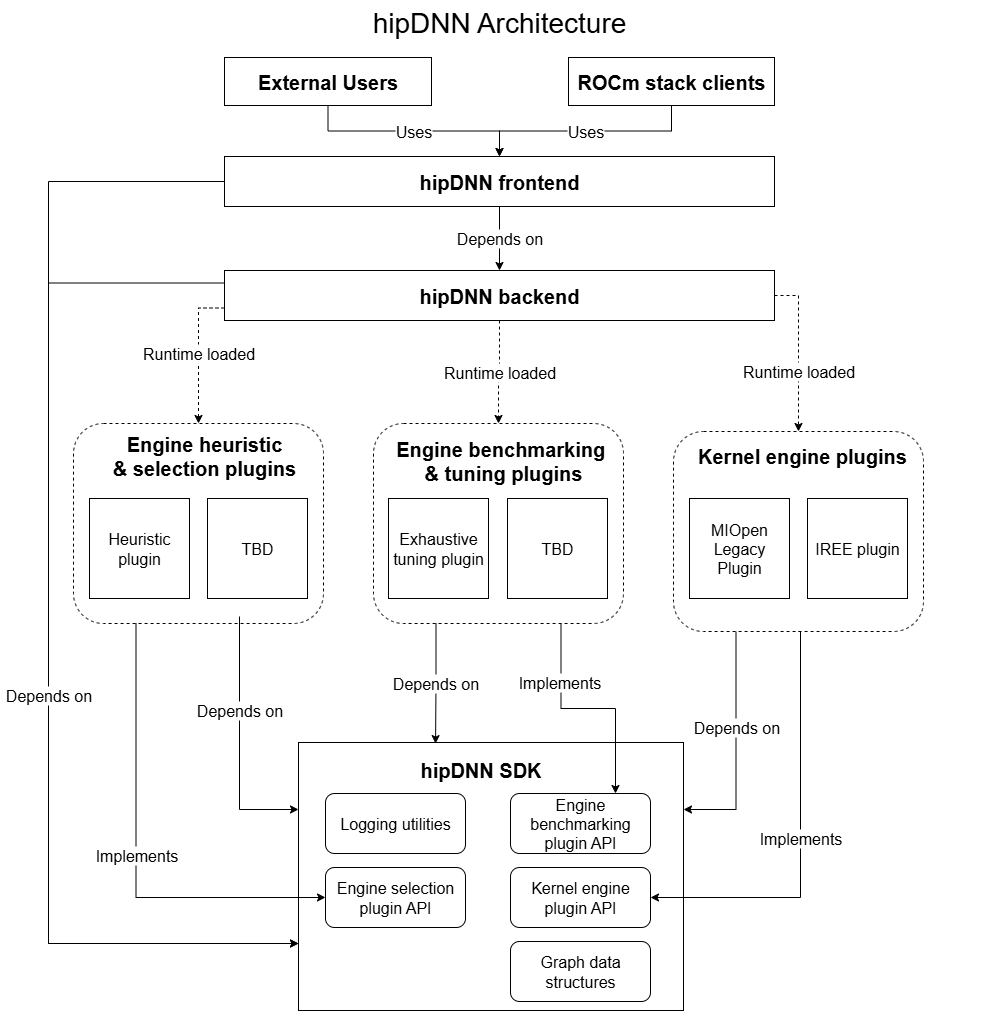
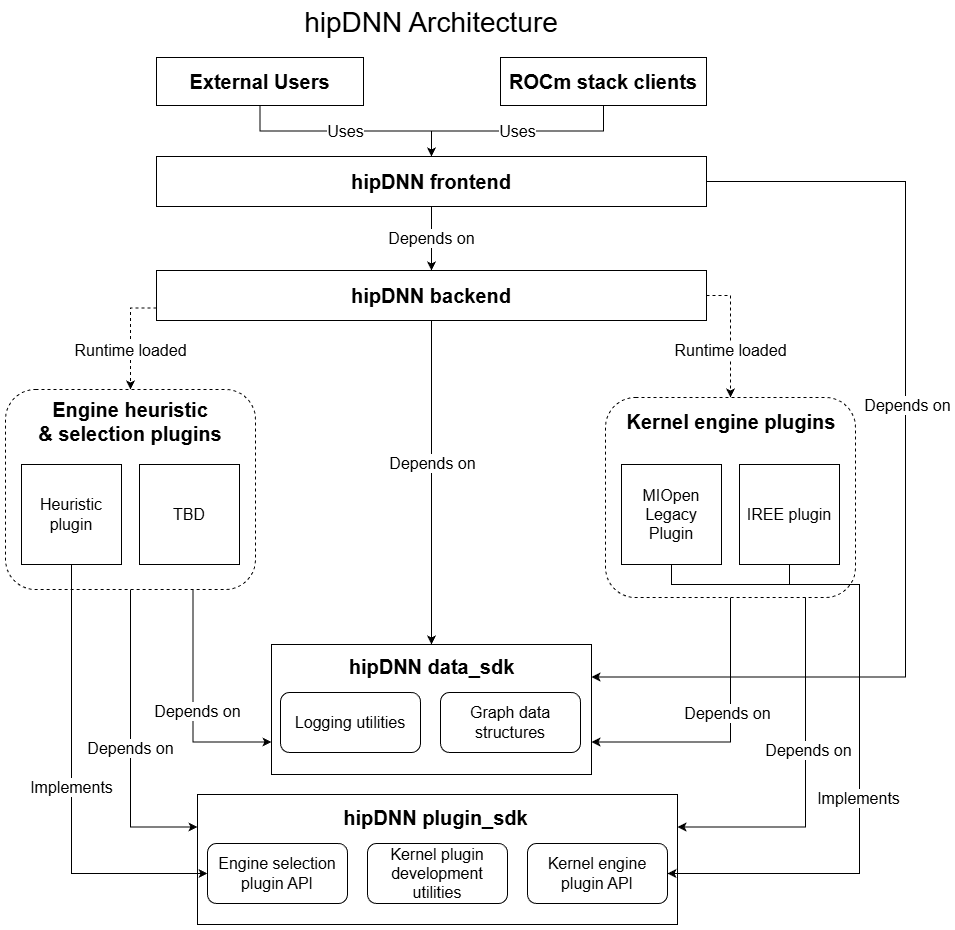
Update architecture after SDK changes and fix broken doc links

diff --git a/projects/hipdnn/docs/rfcs/0001_CpuGraphExecutorDesign.md b/projects/hipdnn/docs/rfcs/0001_CpuGraphExecutorDesign.md
@@ -132,7 +132,7 @@ Runtime Registration Process:
 ## Execution Flow
 
 The complete execution flow from graph input to results:
-![CPU Graph Executor Execution Flow](./images/hipdnn_cpu_graph_execution_flow.png)
+![CPU Graph Executor Execution Flow](../images/hipdnn_cpu_graph_execution_flow.png)
 
 ## Supported Operations
 
@@ -141,7 +141,7 @@ The CPU Reference Implementation supports a comprehensive set of deep learning o
 - **Convolution**: Forward pass, data gradients, and weight gradients
 - **Pointwise**: Unary and binary element-wise operations (activations, arithmetic)
 
-For a complete list of supported operations, datatypes, and layouts, please refer to the [CPU Reference Implementation Operation Support](./OperationSupport-ReferenceImpl.md) document.
+For a complete list of supported operations, datatypes, and layouts, please refer to the [CPU Reference Implementation Operation Support](../OperationSupport-ReferenceImpl.md) document.
 
 ## Extension Guidelines
 
